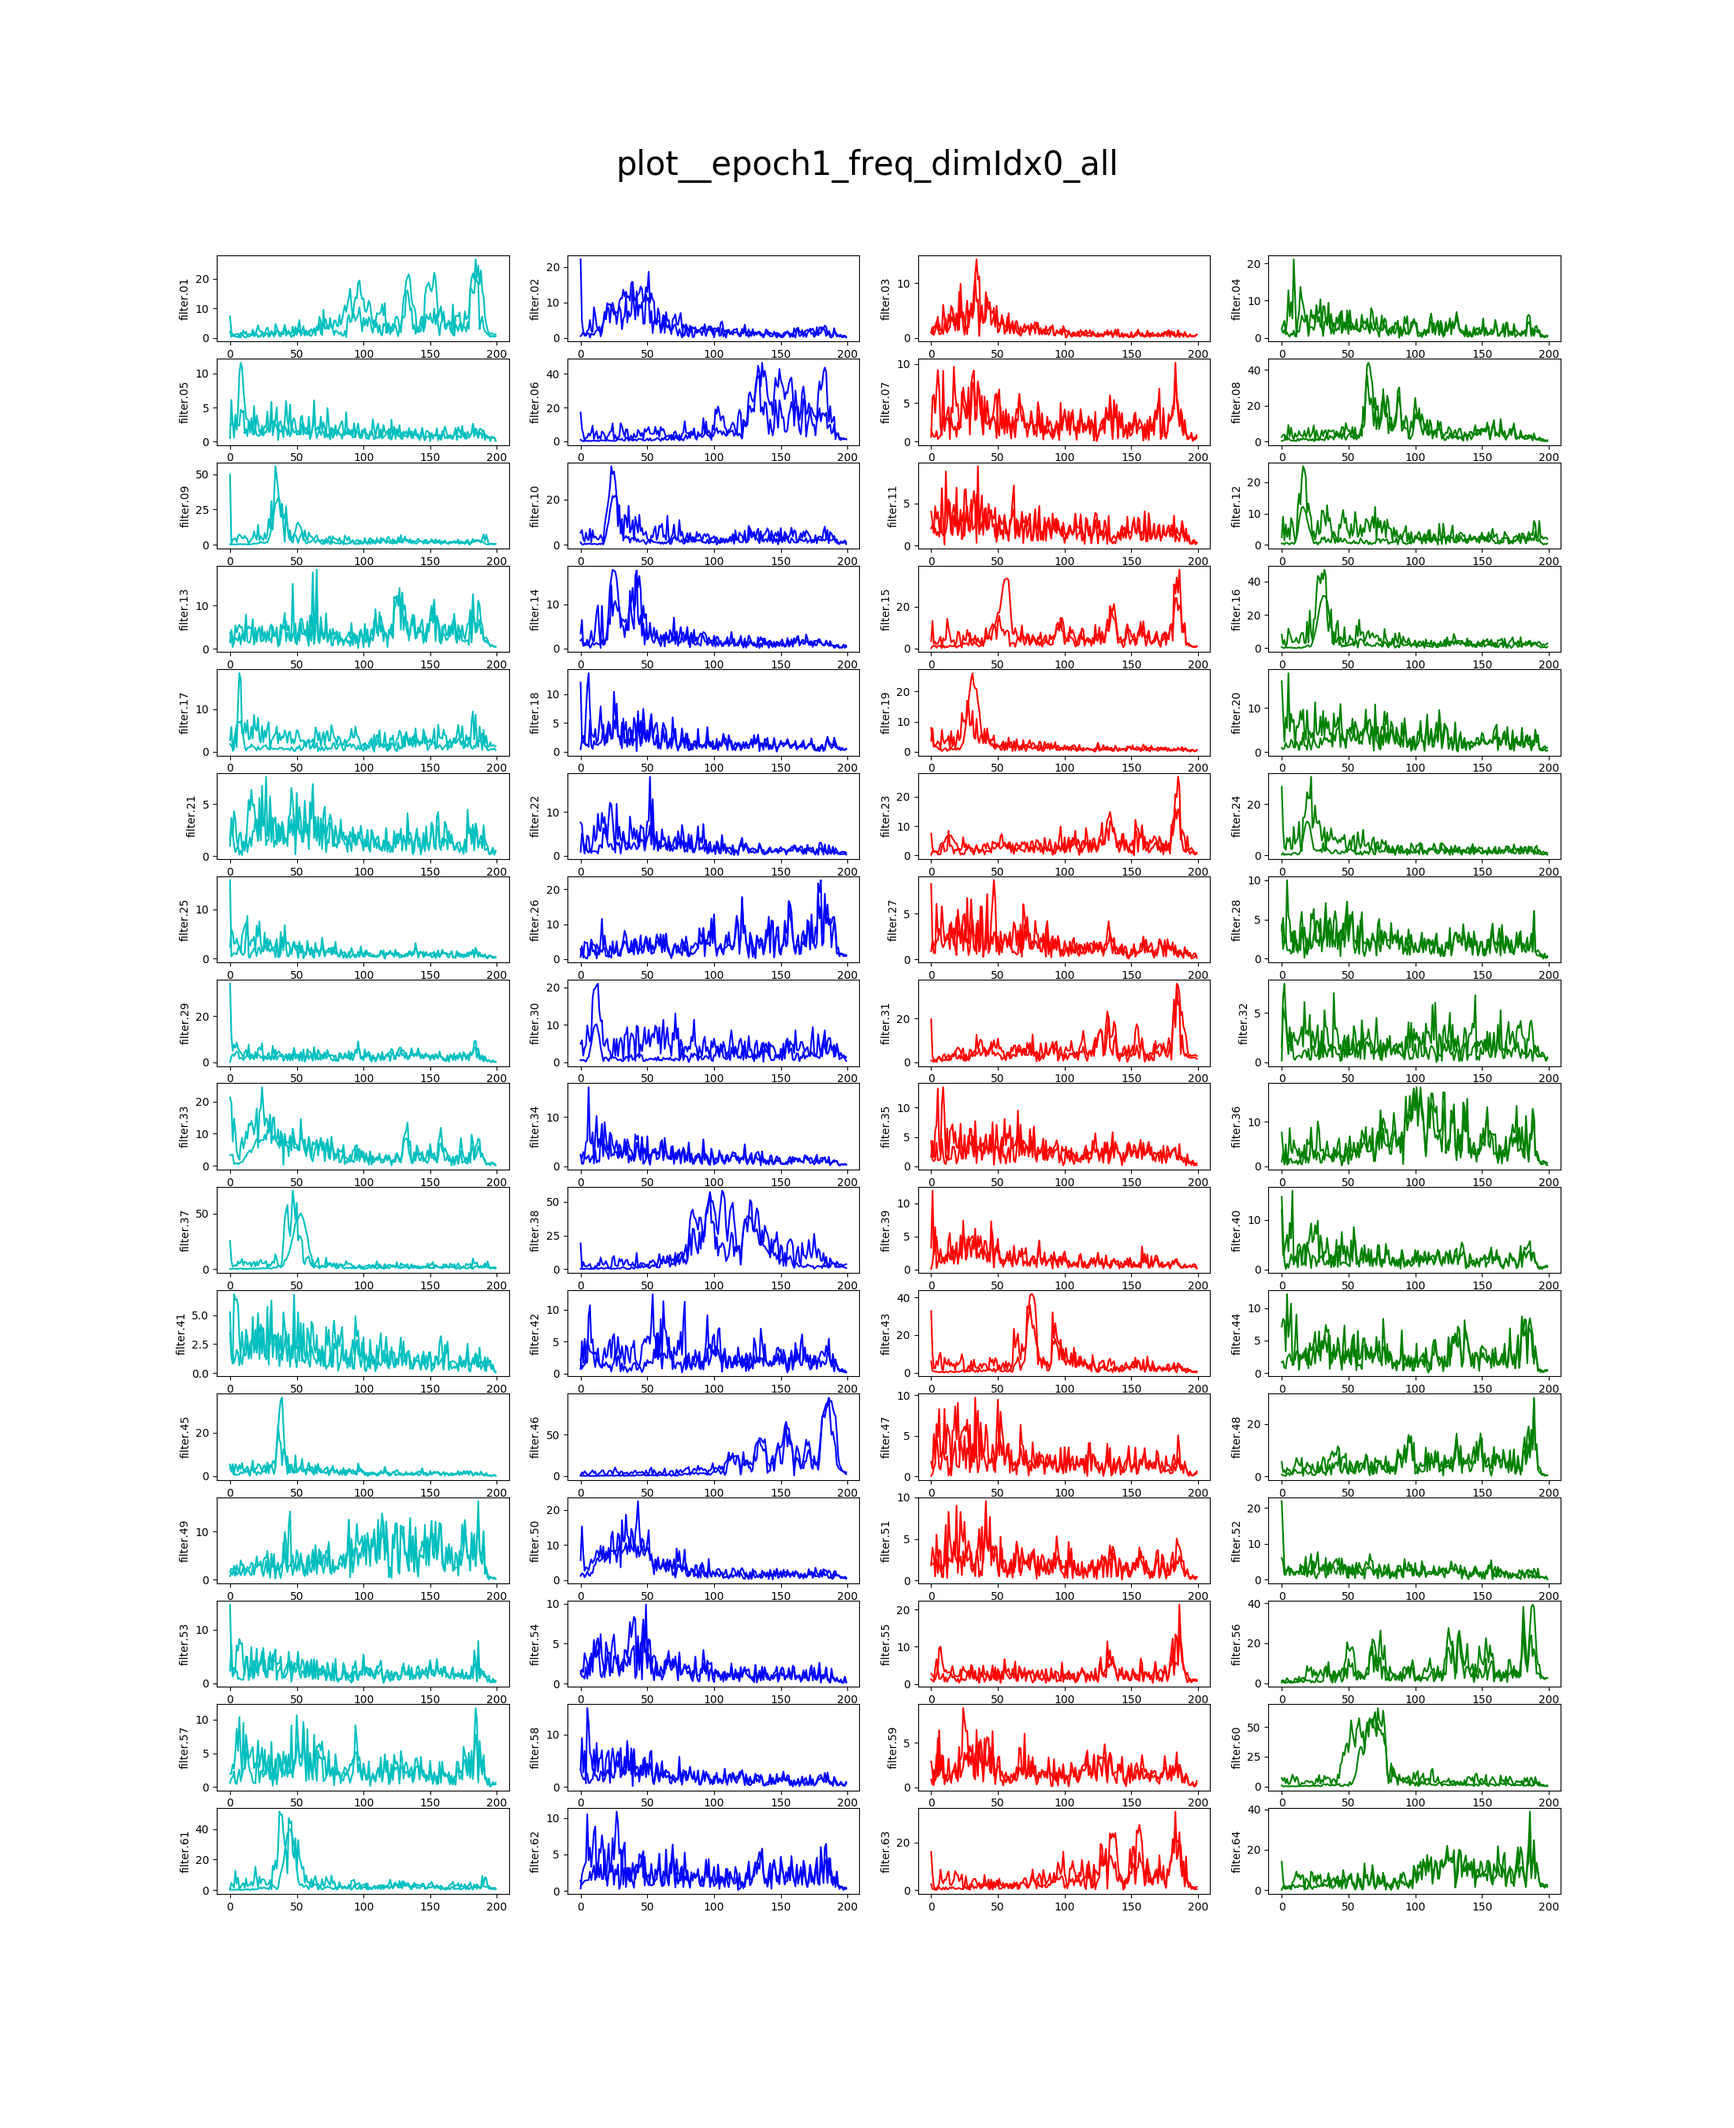
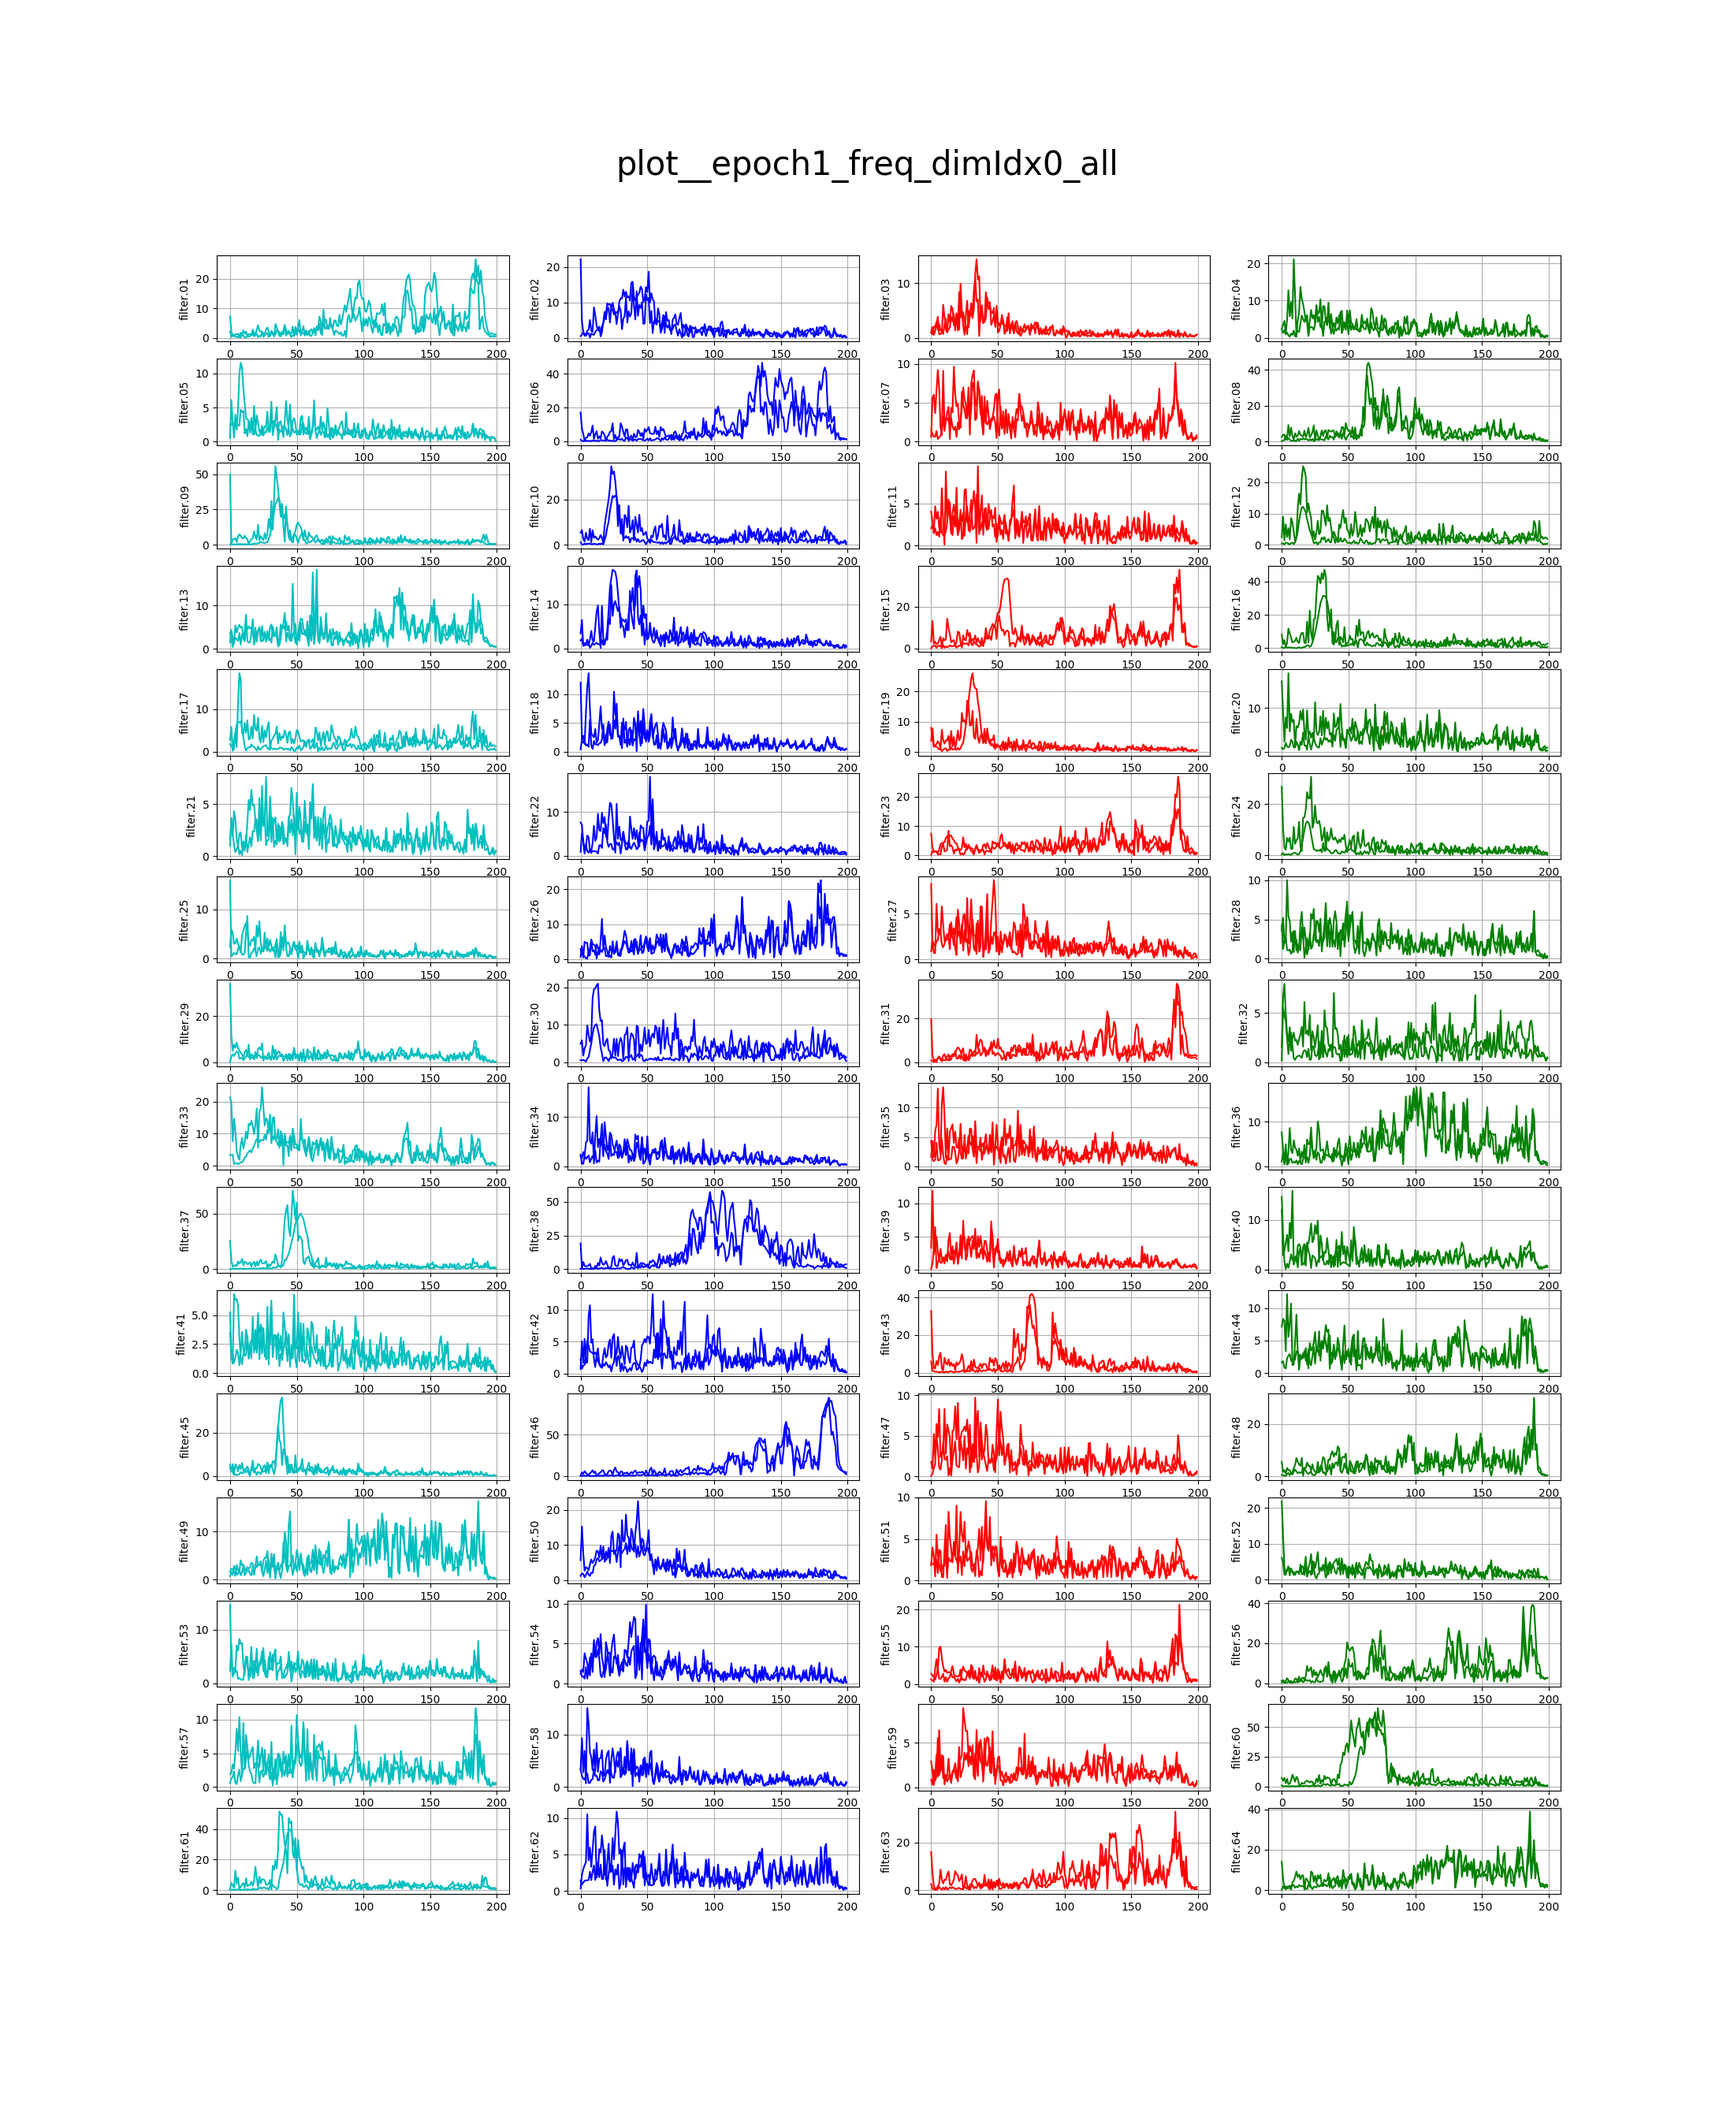
up

diff --git a/returnnTfNetworkLayerPlotter.py b/returnnTfNetworkLayerPlotter.py
@@ -323,7 +323,7 @@ class Plotter(object):
 
     def plot1DGraph(self, axs, axsRowIdx, axsColIdx, xAxisValues, yAxisValues, colors_idx):
         axs[axsRowIdx][axsColIdx].plot(xAxisValues, yAxisValues, self.colors[colors_idx])
-        axs[axsRowIdx][axsColIdx].grid()
+        axs[axsRowIdx][axsColIdx].grid(b=True)
         return axs
 
     def plot2DHeatWeights(self, mode):
